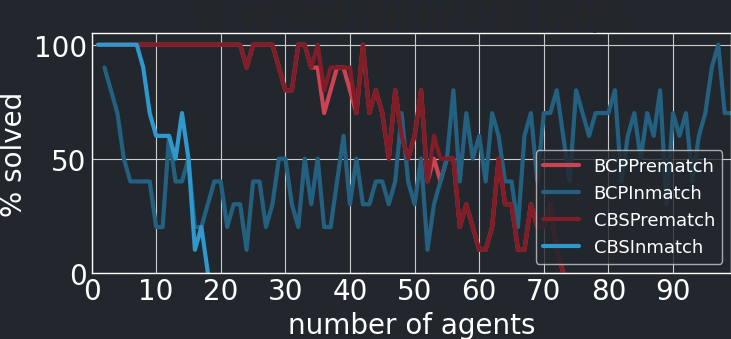
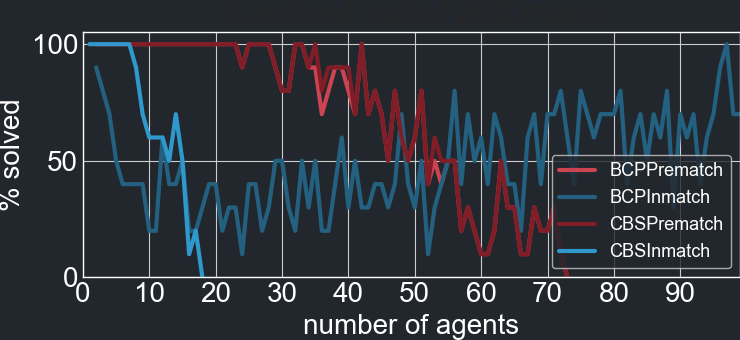
go up to 30 agents

diff --git a/python/benchmarks/main.py b/python/benchmarks/main.py
@@ -6,16 +6,17 @@ from typing import Optional, Callable
 from mapf_branch_and_bound.bbsolver import compute_sol_cost
 from tqdm import tqdm
 
+from graph_times import graph_results
 from map import MapGenerator
 from python.algorithm import MapfAlgorithm
-from python.benchmarks.comparison import SATInmatch, SATPrematch  # , EPEAStar, CBM, AStarODID,
+from python.benchmarks.comparison import BCPInmatch, BCPPrematch, CBSPrematch, CBSInmatch
 from python.benchmarks.parse_map import MapParser
 from python.benchmarks.run_with_timeout import run_with_timeout
 # from python.benchmarks.comparison.icts import ICTS
-from python.benchmarks.util import output_data
+from python.benchmarks.util import output_data, read_from_file
 
 this_dir = pathlib.Path(__file__).parent.absolute()
-name = "main_maze"
+name = "comparison_25percent_3teams_maps_preview_maze_2"
 
 
 def generate_maps():
@@ -25,7 +26,7 @@ def generate_maps():
     except FileExistsError:
         pass
 
-    num = 3
+    num = 99
 
     dirnames = [n.name for n in path.iterdir() if n.is_dir()]
 
@@ -56,9 +57,9 @@ def run(solver: Callable[[], MapfAlgorithm], bm_name: str, parse_maps: bool = Tr
     fname = batchdir / f"results_{bm_name}.txt"
     fname2 = batchdir / f"actual_results_{bm_name}.txt"
 
-    # if fname.exists():
-    #     print(f"data exists for {bm_name}")
-    #     return fname, bm_name
+    if fname.exists():
+        print(f"data exists for {bm_name}")
+        return fname, bm_name
 
     # num agents : solutions
     results: dict[int, list[Optional[int]]] = {}
@@ -75,10 +76,10 @@ def run(solver: Callable[[], MapfAlgorithm], bm_name: str, parse_maps: bool = Tr
         num_agents = len(problems[0][1].goals)
 
         partname = pathlib.Path(str(fname) + f".{num_agents}agents")
-        # if partname.exists():
-        #     print(f"found data for part {num_agents}")
-        #     results[num_agents] = read_from_file(partname, num_agents)
-        #     continue
+        if partname.exists():
+            print(f"found data for part {num_agents}")
+            results[num_agents] = read_from_file(partname, num_agents)
+            continue
         all_results = run_with_timeout(solver(), problems, parse_maps, 1000000)  # test with low timeout
         sols_inmatch, sols_costs = zip(*all_results)
         tqdm.write(f"{bm_name} with {num_agents} agents: {sols_inmatch}")
@@ -108,74 +109,37 @@ def main():
 
     files: list[tuple[pathlib.Path, str]] = []
 
-    # files.append(run(
-    #     lambda: ConfigurableMStar(
-    #         Config(
-    #             operator_decomposition=True,
-    #             precompute_paths=False,
-    #             precompute_heuristic=True,
-    #             collision_avoidance_table=False,
-    #             recursive=False,
-    #             matching_strategy=MatchingStrategy.SortedPruningPrematch,
-    #             max_memory_usage=3 * GigaByte,
-    #             debug=False,
-    #             report_expansions=False,
-    #         ), 
-    #     ),
-    #     "M*"
-    # ))
-
-    # files.append(run(
-    #     lambda: EPEAStar(),
-    #     "EPEA*"
-    # ))
-
-    # files.append(run(
-    #     lambda: CBM(),
-    #     "CBM"
-    # ))
-
-    # files.append(run(
-    #     lambda: AStarODID(),
-    #     "A*-OD-ID"
-    # ))
-
-    # files.append(run(
-    #     lambda: ICTS(),
-    #     "ICTS"
-    # ))
-
-    # files.append(run(
-    #     lambda: BCPPrematch(),
-    #     "BCPPrematch"
-    # ))
-    #
-    # files.append(run(
-    #     lambda: BCPInmatch(),
-    #     "BCPInmatch"
-    # ))
-    #
-    # files.append(run(
-    #     lambda: CBSPrematch(),
-    #     "CBSPrematch"
-    # ))
-    #
-    # files.append(run(
-    #     lambda: CBSInmatch(),
-    #     "CBSInmatch"
-    # ))
-
     files.append(run(
-        lambda: SATInmatch(),
-        "SATInmatch"
+        lambda: BCPPrematch(),
+        "BCPPrematch"
     ))
 
     files.append(run(
-        lambda: SATPrematch(),
-        "SATPrematch"
+        lambda: BCPInmatch(),
+        "BCPInmatch"
     ))
+
+    files.append(run(
+        lambda: CBSPrematch(),
+        "CBSPrematch"
+    ))
+
+    files.append(run(
+        lambda: CBSInmatch(),
+        "CBSInmatch"
+    ))
+
+    graph_results(
+        *files,
+        batchdir / f"{name}",
+        under="number of agents",
+        save=False,
+        bounds=False,
+        legend=False,
+        limit=30,
+    )
 
 
 if __name__ == '__main__':
-    generate_maps()
+    main()
 

diff --git a/python/benchmarks/graph_times.py b/python/benchmarks/graph_times.py
@@ -56,9 +56,9 @@ def graph_results(*args, under,
                   graph_times=False,
                   graph_percentage=True,
                   legend=True,
+                  limit=float("inf")
                   ):
     plt.style.use('seaborn-whitegrid')
-
     if black:
         plt.rcParams['axes.facecolor'] = rgb_to_colour(*background)
         plt.rcParams['axes.edgecolor'] = '#FFFFFF'
@@ -149,7 +149,8 @@ def graph_results(*args, under,
                 before, after = l.split(":")
                 after_list = eval(after)
                 num_agents = int(before)
-
+                if limit is not None:
+                    after_list = [x if x is None or x <= limit else None for x in after_list]
                 fraction_solved = (len(after_list) - after_list.count(None)) / len(after_list)
 
                 solved_times = [i for i in after_list if i is not None]

diff --git a/python/benchmarks/comparison_25percent_1teams.py b/python/benchmarks/comparison_25percent_1teams.py
@@ -26,7 +26,7 @@ def generate_maps():
     except FileExistsError:
         pass
 
-    num = 10
+    num = 30
 
     dirnames = [n.name for n in path.iterdir() if n.is_dir()]
 

diff --git a/python/benchmarks/comparison_25percent_3teams.py b/python/benchmarks/comparison_25percent_3teams.py
@@ -29,7 +29,7 @@ def generate_maps():
     except FileExistsError:
         pass
 
-    num = 10
+    num = 30
 
     dirnames = [n.name for n in path.iterdir() if n.is_dir()]
 
